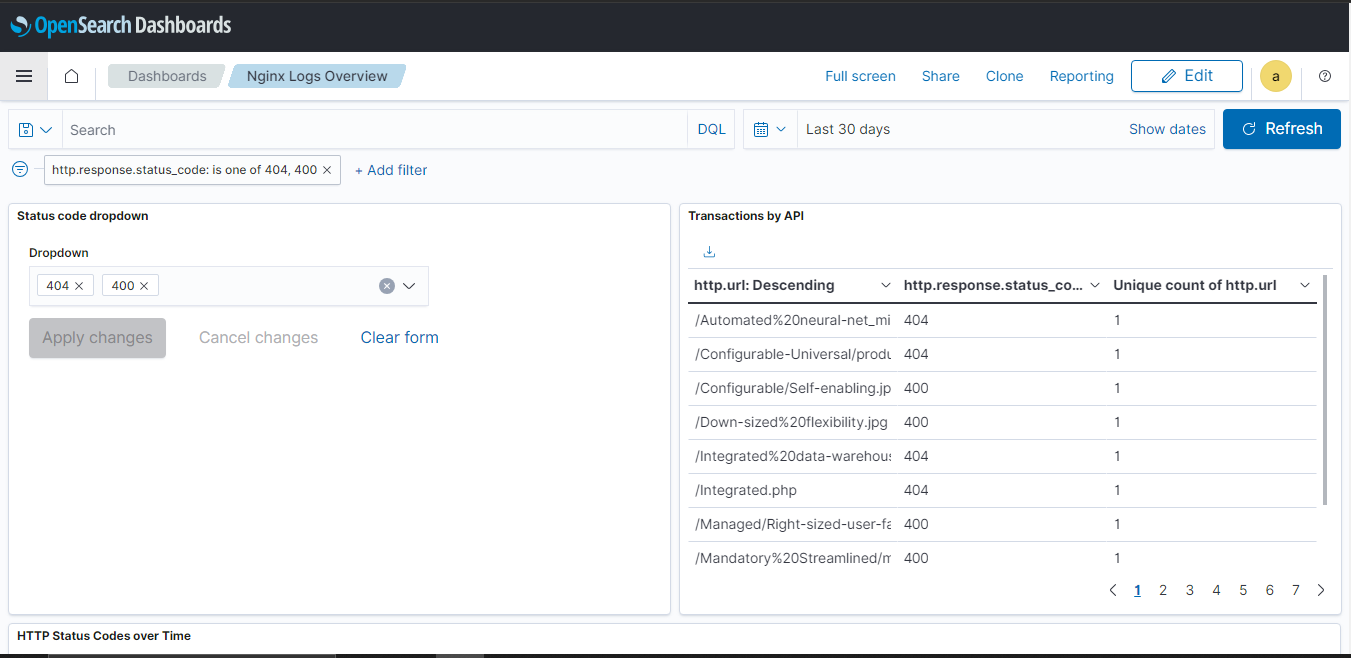
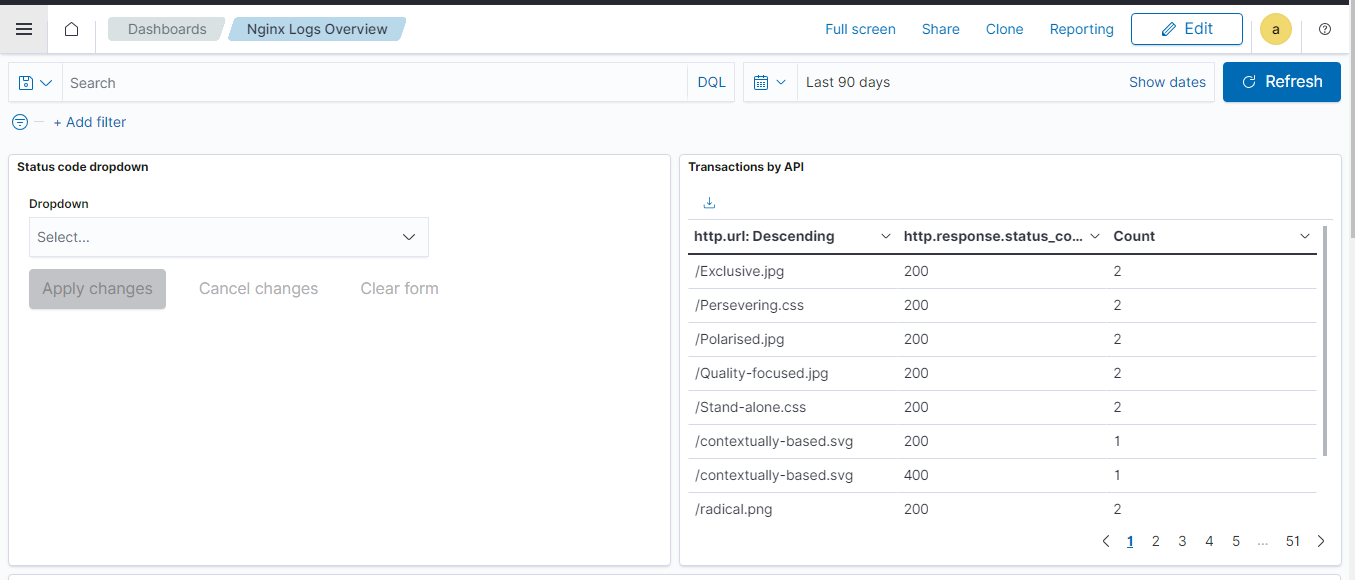
changes made :    Transactions by API panel provided count instead of unique count of http.url to show how many responses there are for each status code    Added the new screenshot in the  gallery of nginx-1.0.0.json and in info of nginx.

diff --git a/server/adaptors/integrations/__data__/repository/nginx/info/README.md b/server/adaptors/integrations/__data__/repository/nginx/info/README.md
@@ -15,3 +15,4 @@ Nginx integration includes dashboards, visualisations, queries and an index mapp
 ### Dashboards
 
 ![](../static/dashboard1.png)
+![](../static/dashboard2.png)
